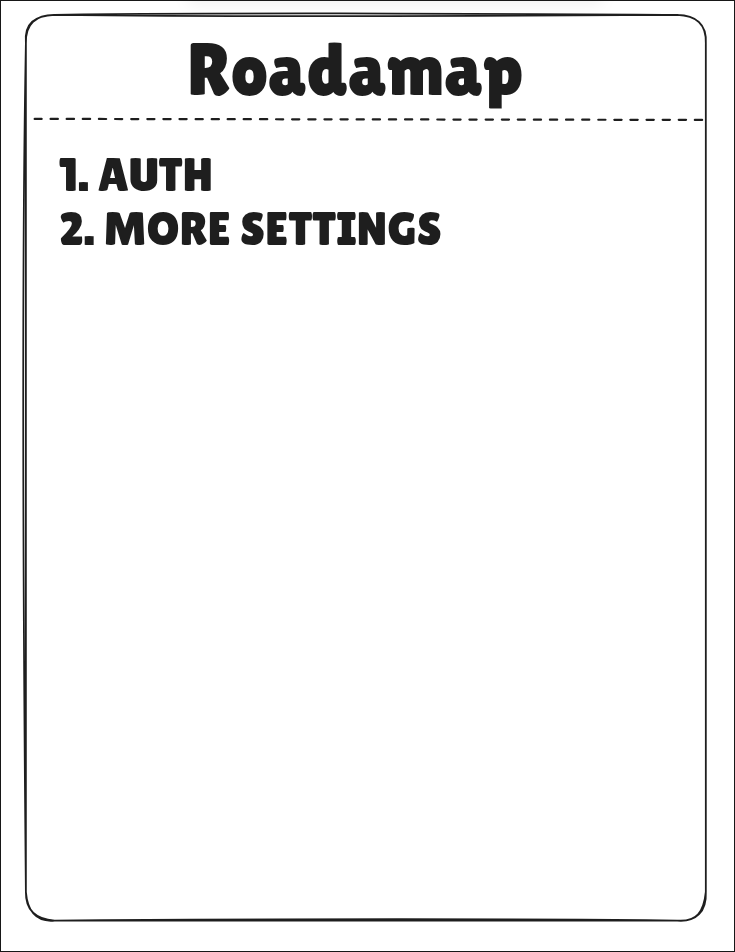
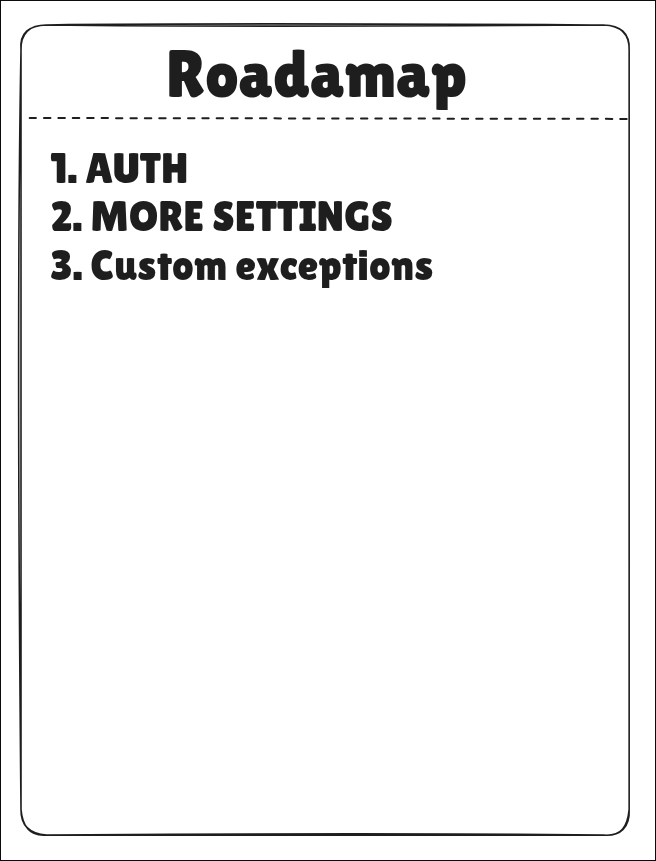
change: russian comments -> english; README warn for ports

Changed region(s): [[0.0, 0.0, 0.9756, 0.9663], [0.0, 0.9663, 1.0, 1.0]]

diff --git a/src/rm/rm.py b/src/rm/rm.py
@@ -21,7 +21,7 @@ def sec_of_limit(limit: str):
         case "y":
             rm = 12960000
         case _:
-            raise TypeError("Такие единициы измерения не поддерживаются")
+            raise TypeError("Such measurement units are not supported")
     return int(limit.split("/")[0]), int(rm)
 
 
@@ -30,7 +30,7 @@ async def limit_exceeded(request: Request, path: str, all_path: bool = False):
     client_ip = request.client.host if request.client else None
     request_time = time.time()
     if not client_ip:
-        raise TypeError("Неизвестный ip")
+        raise TypeError("Unknown IP")
 
     async def checker(rm, key):
         if not rm:
@@ -68,7 +68,7 @@ async def evaluate(request: Request):
                 return (
                     Action.GO,
                     True,
-                )  # True - мы попали в all_path берем опредленого воркера
+                )  # True - matched path, take specific worker
         path = (path.rsplit("/", maxsplit=1)[0] or "/") if path != "/" else ""
     if config_settings.all_path:
         if await limit_exceeded(request, "", all_path=True):
@@ -78,6 +78,6 @@ async def evaluate(request: Request):
         return (
             Action.GO,
             False,
-        )  # False - берем общего воркера
+        )  # False - take general worker
     else:
         return Action.PROXY

diff --git a/src/api/router.py b/src/api/router.py
@@ -20,7 +20,7 @@ async def request_to_dict(request: Request) -> dict:
         "method": request.method,
         "url": str(request.url),
         "headers": dict(request.headers),
-        # Декодируем байты в обычную строку (работает для JSON и текста)
+        # Decode bytes into a standard string (works for JSON and text)
         "body": (await request.body()).decode("utf-8"),
     }
 
@@ -45,7 +45,7 @@ async def handler_func(request: Request):
         )
         result = await redis.blpop(lock_key, timeout=15)
         if result is None:
-            raise HTTPException(504, detail="Не удалось получить ответ!")
+            raise HTTPException(504, detail="Failed to get response!")
         _, value = result
         return Response(**json.loads(value))
 
@@ -56,5 +56,5 @@ async def handler_func(request: Request):
         )
         return JSONResponse(
             status_code=config_settings.response_code,
-            content="Данные успешно получены. Скоро все будет обработано!",
+            content="Data successfully received. Processing will be finished soon!",
         )

diff --git a/src/core/config_parser.py b/src/core/config_parser.py
@@ -4,11 +4,11 @@ from typing import Any
 
 
 def parse_toml_config(file_path: str | Path) -> dict[str, Any]:
-    """Читает TOML-файл и возвращает сырой словарь без валидации."""
+    """Reads a TOML file and returns a raw dictionary without validation."""
     path = Path(file_path)
     
     if not path.is_file():
-        raise FileNotFoundError(f"Конфигурационный файл не найден: {path.resolve()}")
+        raise FileNotFoundError(f"Configuration file not found: {path.resolve()}")
 
     with path.open("rb") as f:
         return tomllib.load(f)

diff --git a/src/queue/worker.py b/src/queue/worker.py
@@ -32,6 +32,6 @@ async def worker_task(app: FastAPI, path: str, rrm: str):
                 await redis.lpush(lock_key, json.dumps(response))
                 await redis.set(last_modifed_key, time.time())
             else:
-                pass  # Скоро будет возможность вебхука, следите за релизами!
+                pass  # Webhook support coming soon, stay tuned for releases!
         else:
             await asyncio.sleep(tact - last_modifed)

diff --git a/src/api/redirect.py b/src/api/redirect.py
@@ -31,7 +31,7 @@ async def proxy_pass_dict(data: dict, app: FastAPI) -> dict:
 
     headers = dict(response.headers)
 
-    # удаляем заголовки, которые могут сломать ответ (так как response.text уже раскодирован)
+    # remove headers that could break the response (since response.text is already decoded)
     headers.pop("content-length", None)
     headers.pop("content-encoding", None)
 

diff --git a/README.md b/README.md
@@ -9,6 +9,10 @@ vim aegis.toml
 sudo docker compose up --build
 ```
 
+## Warning
+
+- Aegis uses ports 6379 and 6378 to operate. If you need to change these, specify them in docker-compose.
+
 ## Architecture
 
 ![Aegis architecture](./docs/architecture.png)
